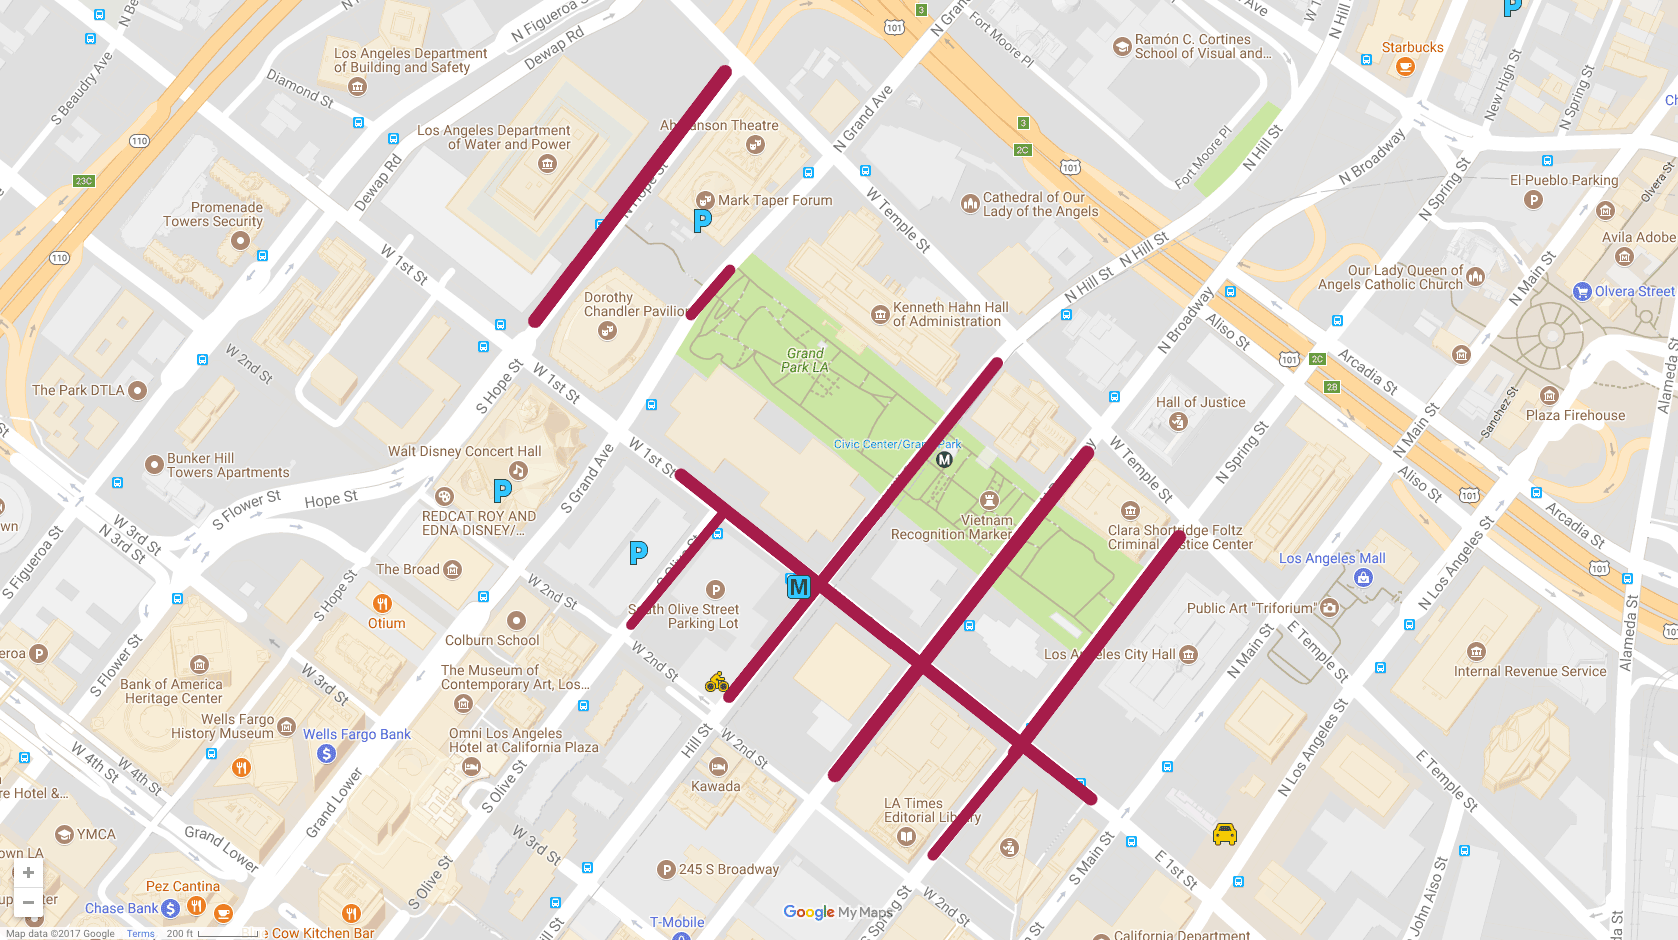
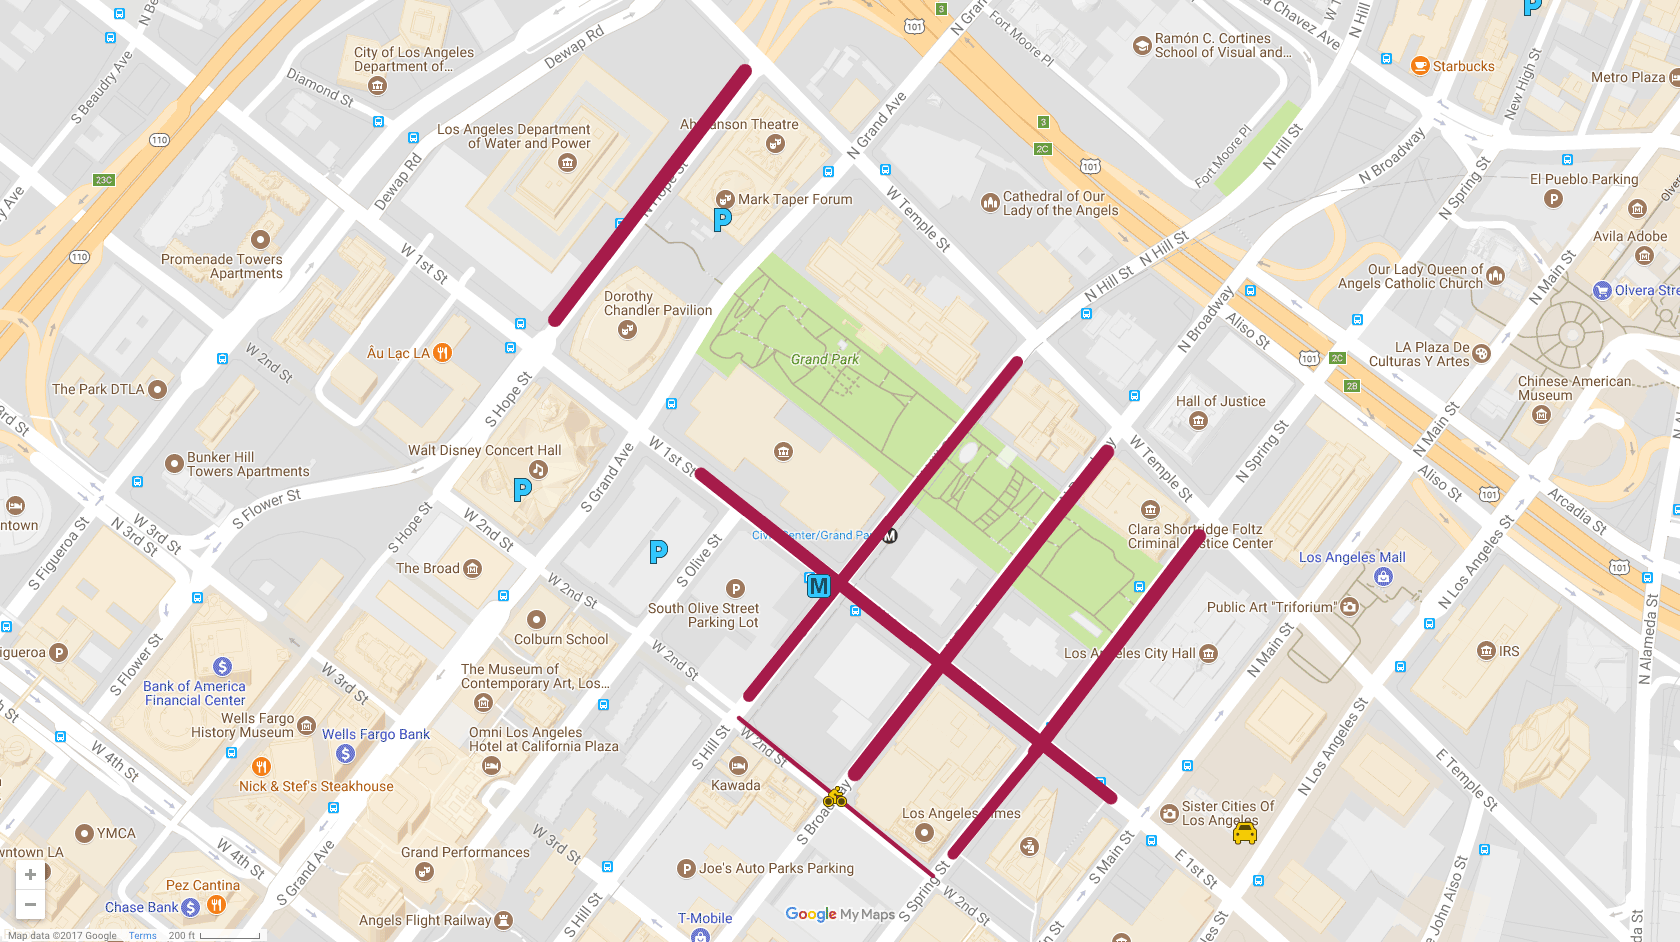
Switch to a image and link, for road closures.

diff --git a/css/style.css b/css/style.css
@@ -506,12 +506,23 @@
     padding-bottom: 122.36328125%; 
   }
 
+  /* July 4th Road Closures */
   figure > div[data-aspect-ratio="853/940"] {
     padding-bottom: 110.1992966%;
   }
   @media (min-aspect-ratio: 1/1) {
     figure > div[data-aspect-ratio-landscape="1678/940"] {
       padding-bottom: 56.01907032%;
+    }
+  }
+
+  /* NYELA Road Closures */
+  figure > div[data-aspect-ratio="850/942"] {
+    padding-bottom: 110.82352941%;
+  }
+  @media (min-aspect-ratio: 1/1) {
+    figure > div[data-aspect-ratio-landscape="1680/942"] {
+      padding-bottom: 56.07142857%;
     }
   }
 
